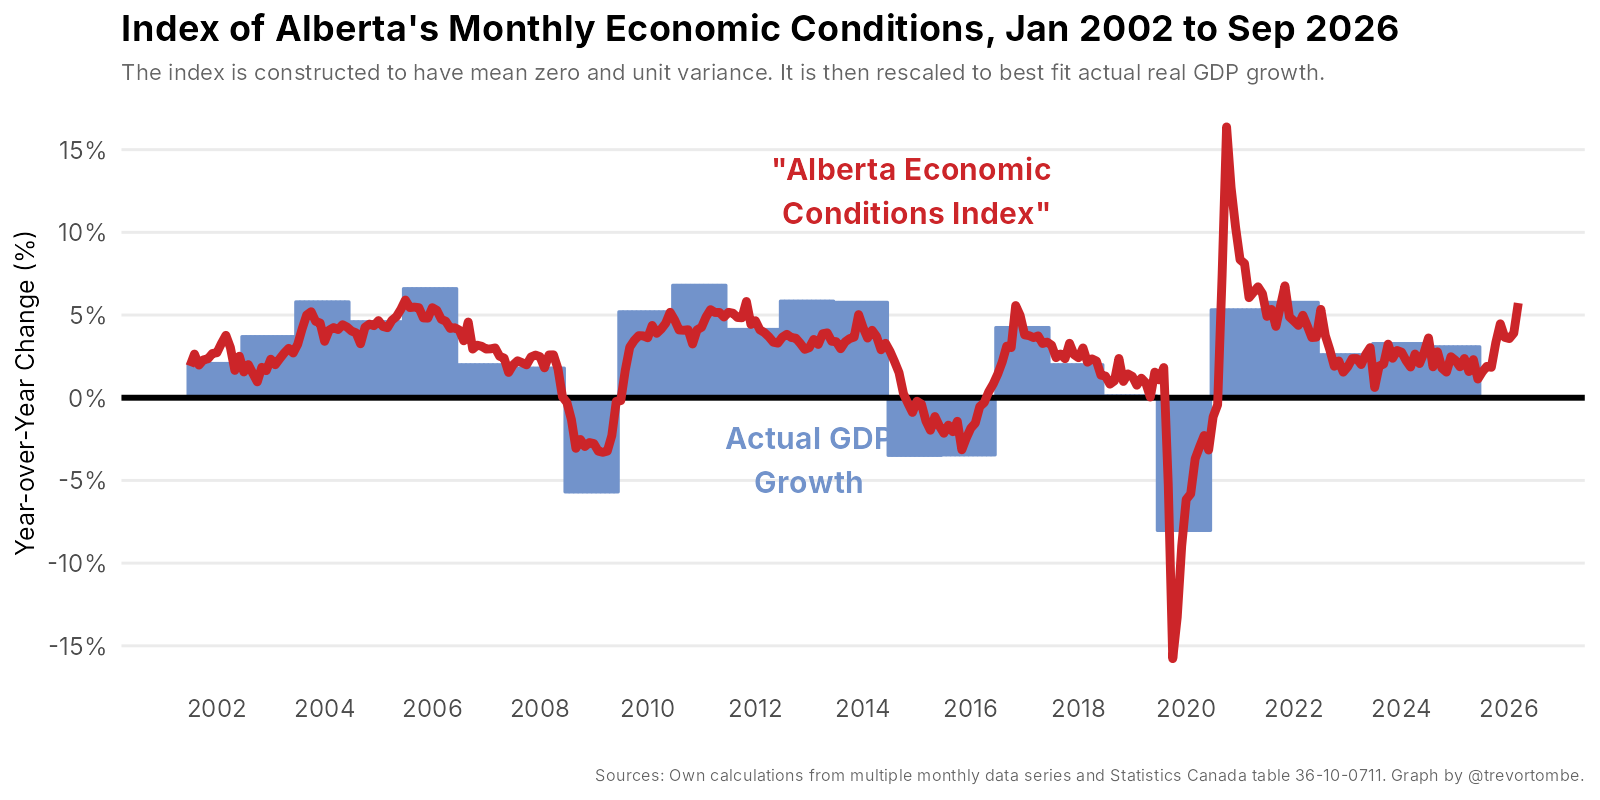
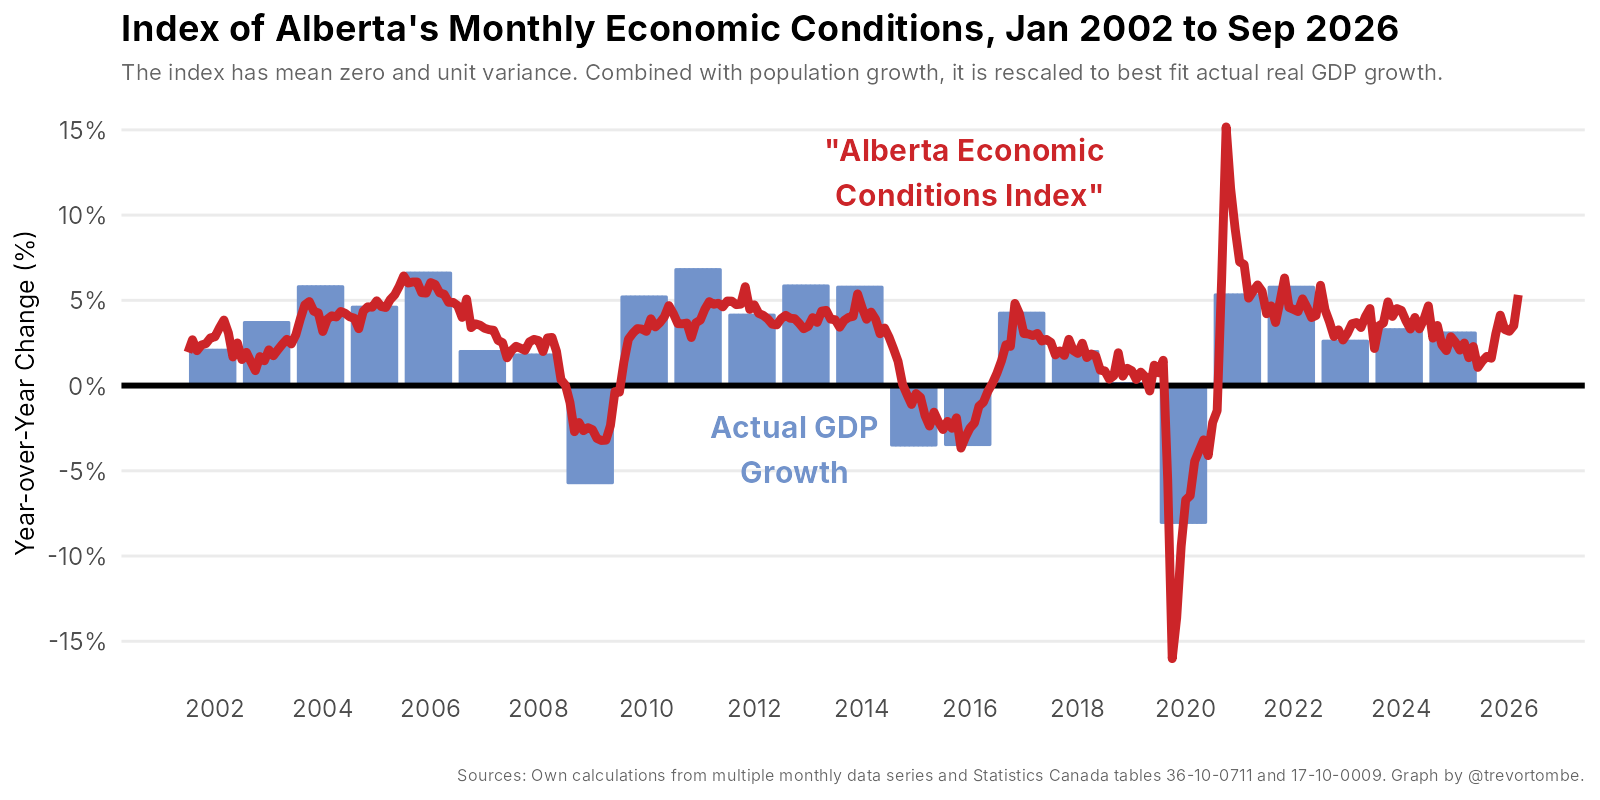
Add population growth to the index-to-GDP-growth mapping
Claude-Session: https://claude.ai/code/session_017vtNs6uRmvzUDFzRcVJN5L

diff --git a/README.md b/README.md
@@ -20,4 +20,4 @@ The latest ECI for Sep 2026 is 1.06 (preliminary: not all series have been relea
 
 ------------------------------------------------------------------------
 
-The index was last updated on November 20, 2026 at 10:09 CST.
+The index was last updated on November 20, 2026 at 10:51 CST.
